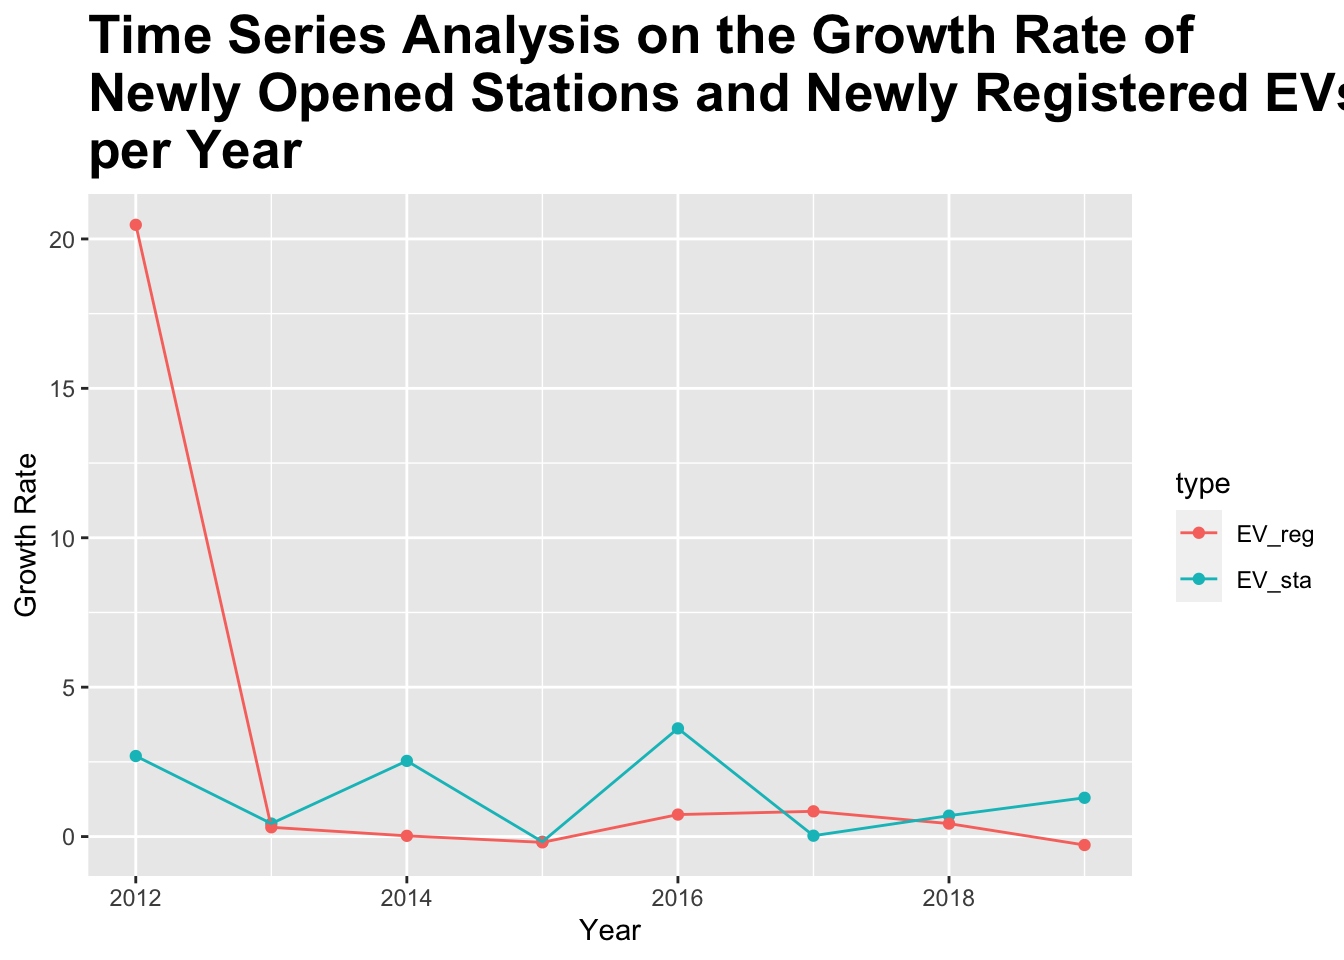
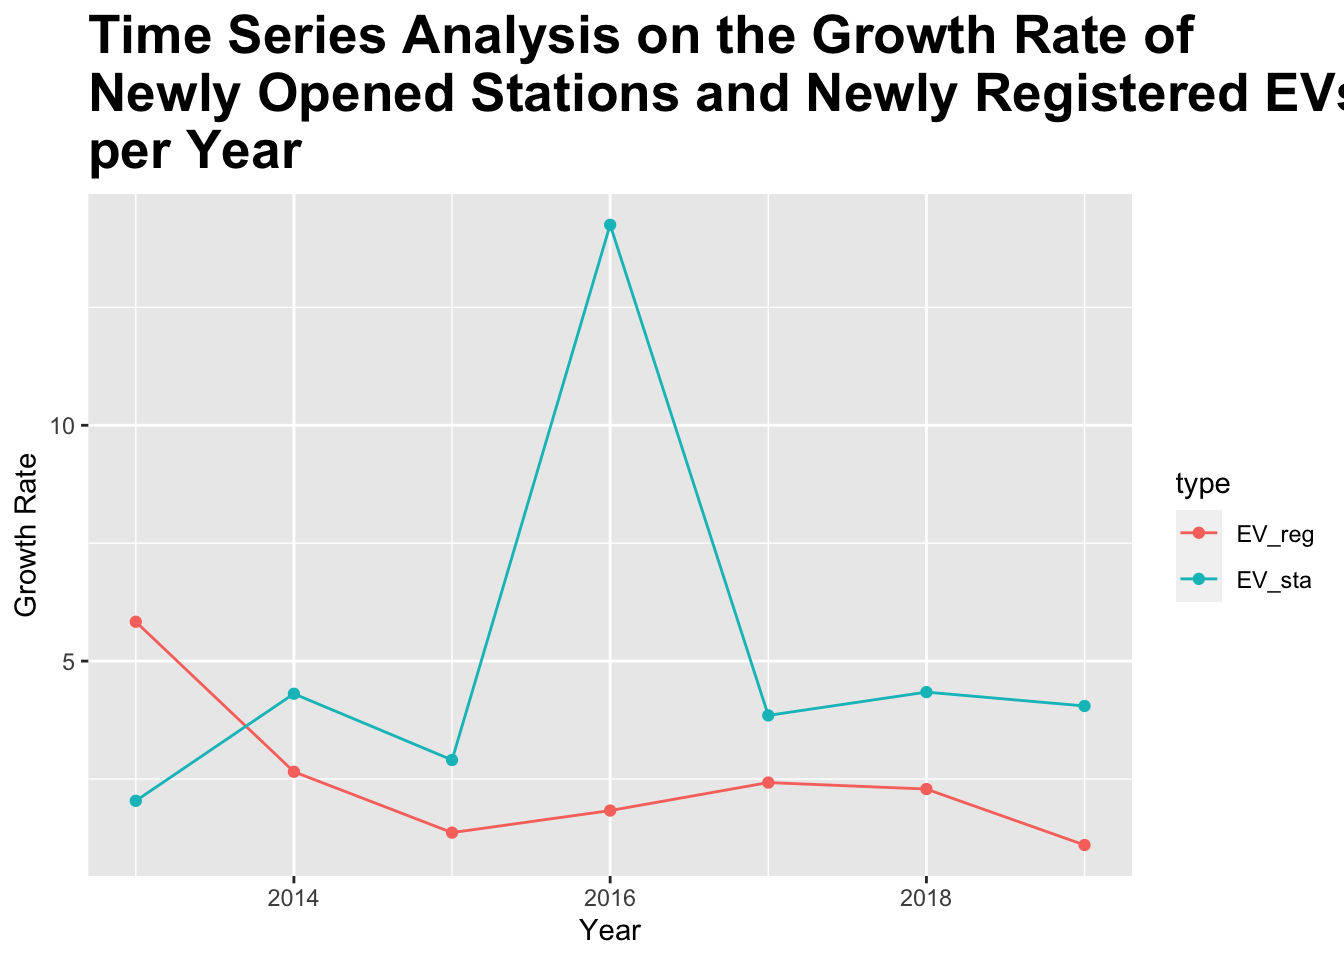
update grwoth rate

diff --git a/docs/index.html b/docs/index.html
@@ -24,7 +24,7 @@
 <meta name="author" content="Dingwen Xie, Yuanhang Chen, Yu Liu" />
 
 
-<meta name="date" content="2020-12-06" />
+<meta name="date" content="2020-12-15" />
 
   <meta name="viewport" content="width=device-width, initial-scale=1" />
   <meta name="apple-mobile-web-app-capable" content="yes" />
@@ -101,7 +101,7 @@
 <div id="header">
 <h1 class="title">Analysis on EV Charging Station in NY State</h1>
 <p class="author"><em>Dingwen Xie, Yuanhang Chen, Yu Liu</em></p>
-<p class="date"><em>2020-12-06</em></p>
+<p class="date"><em>2020-12-15</em></p>
 </div>
 <div id="introduction" class="section level1">
 <h1><span class="header-section-number">Chapter 1</span> Introduction</h1>
@@ -109,7 +109,7 @@
 1.the change of the number of EV charging stations and EV registration over time.
 2.Geological distribution of charging stations in NY state.
 3.Analysis of the data set on specific categories such as EV connector types and models.
-(这个问题部分这次pset4扣分了，咱们后期根据情况再改下问题叭）</p>
+(这个问题部分这次pset4扣分了)</p>
 <p>Related datasets are downloaded from this website (<a href="https://www.nyserda.ny.gov/All-Programs/Programs/ChargeNY/Support-Electric/Data-on-Electric-Vehicles-and-Charging-Stations" class="uri">https://www.nyserda.ny.gov/All-Programs/Programs/ChargeNY/Support-Electric/Data-on-Electric-Vehicles-and-Charging-Stations</a>). We will use the EV registration map and EV charging station map.</p>
 
 </div>

diff --git a/docs/results.html b/docs/results.html
@@ -24,7 +24,7 @@
 <meta name="author" content="Dingwen Xie, Yuanhang Chen, Yu Liu" />
 
 
-<meta name="date" content="2020-12-14" />
+<meta name="date" content="2020-12-15" />
 
   <meta name="viewport" content="width=device-width, initial-scale=1" />
   <meta name="apple-mobile-web-app-capable" content="yes" />
@@ -129,6 +129,7 @@ EV Registration Info
 Time series on growth rate: EV registrations vs. EV stations
 </p>
 <p><img src="finalproj_files/figure-html/unnamed-chunk-14-1.png" width="672" /></p>
+<p>We scaled the growth rate of each year, then….</p>
 
 </div>
             </section>

diff --git a/docs/data-transformation.html b/docs/data-transformation.html
@@ -24,7 +24,7 @@
 <meta name="author" content="Dingwen Xie, Yuanhang Chen, Yu Liu" />
 
 
-<meta name="date" content="2020-12-06" />
+<meta name="date" content="2020-12-15" />
 
   <meta name="viewport" content="width=device-width, initial-scale=1" />
   <meta name="apple-mobile-web-app-capable" content="yes" />
